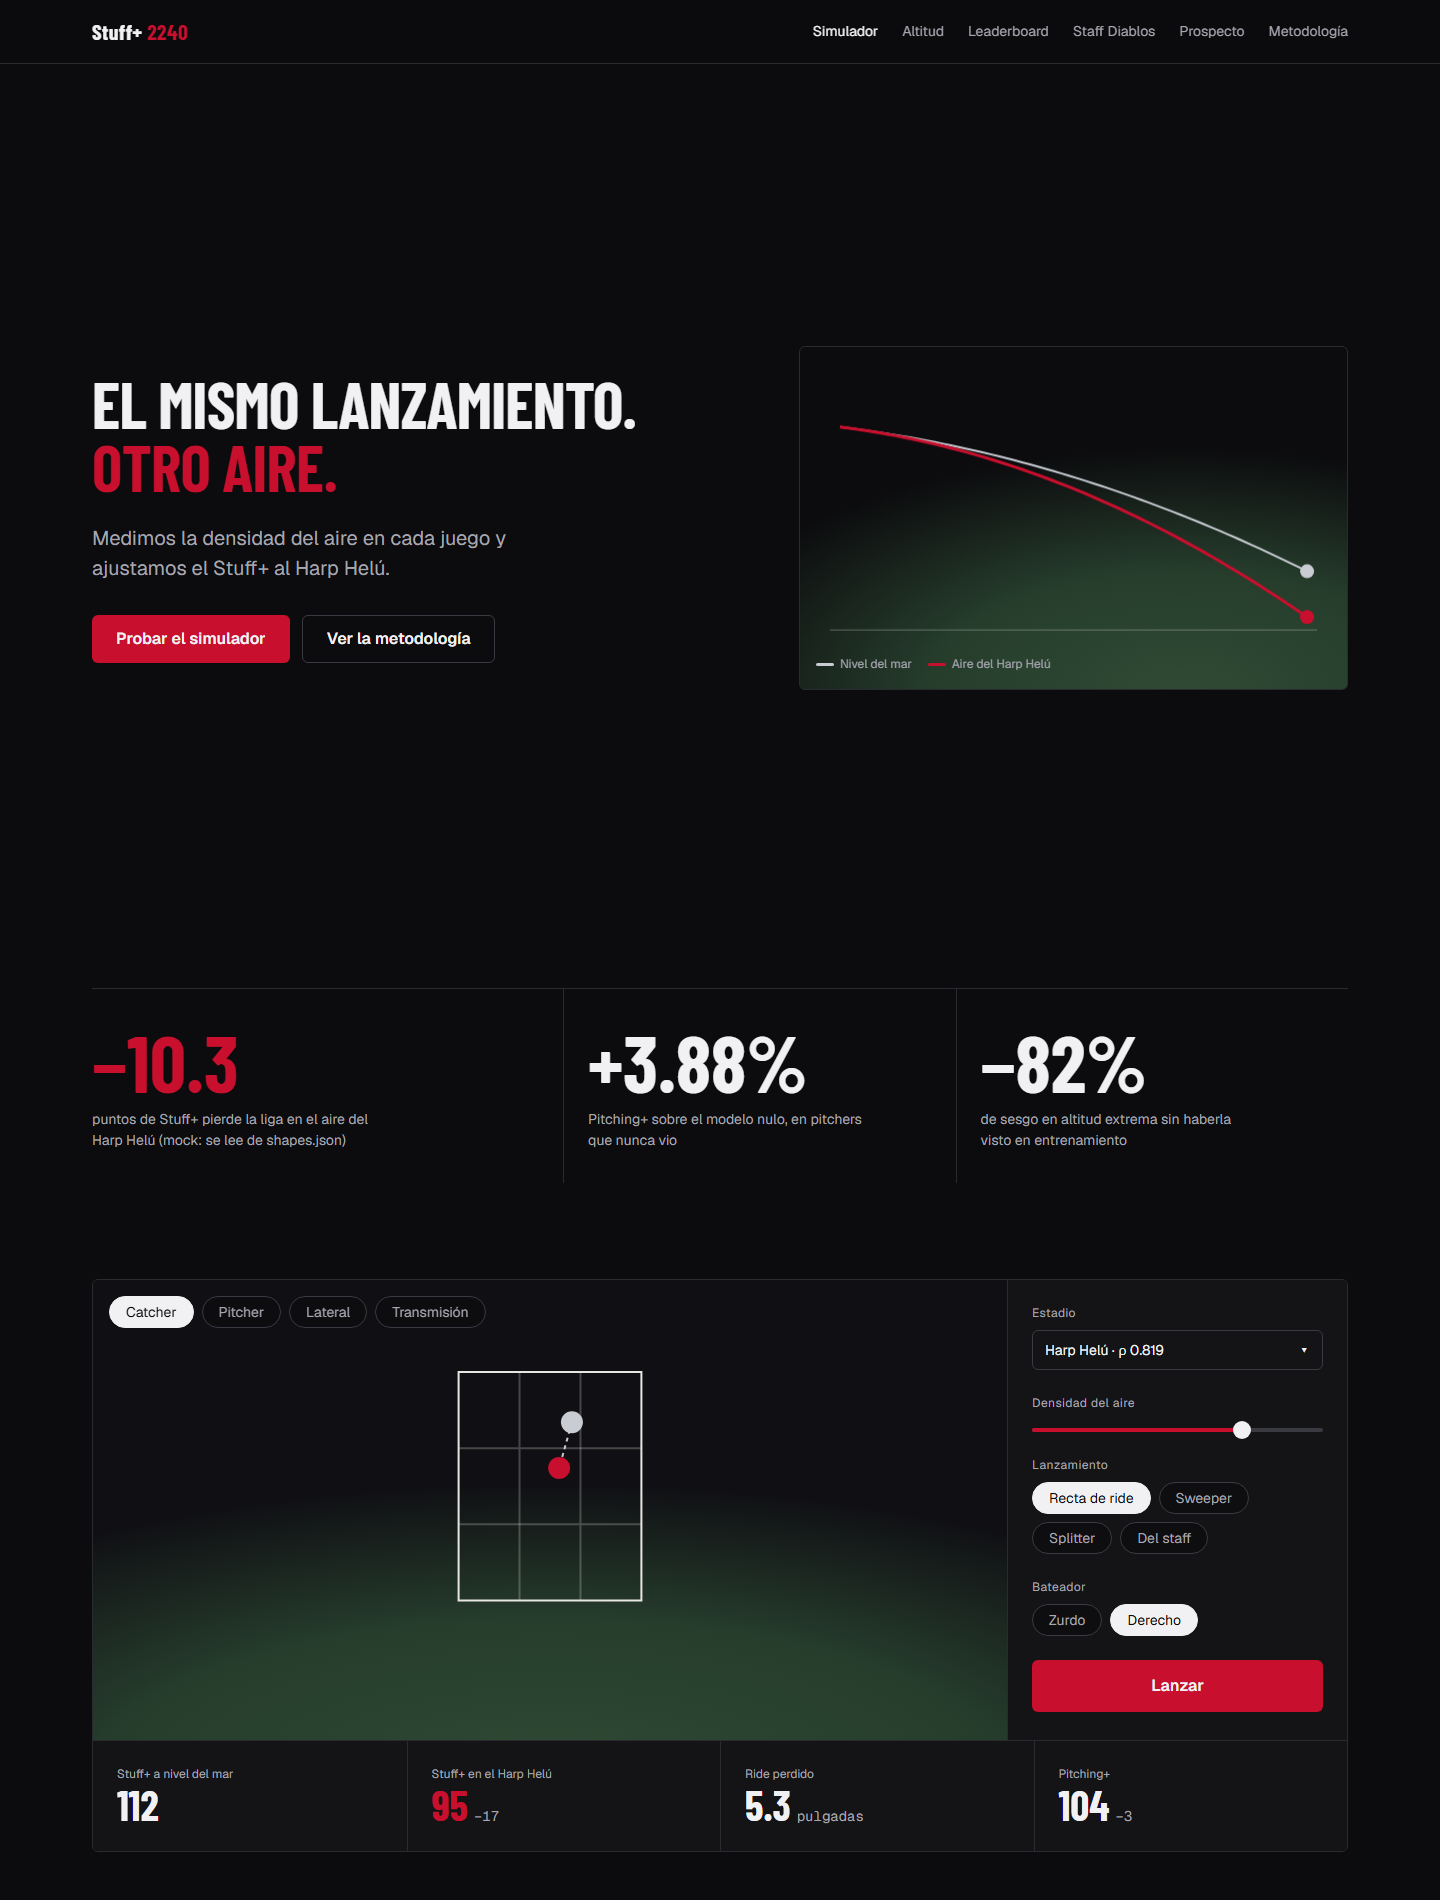
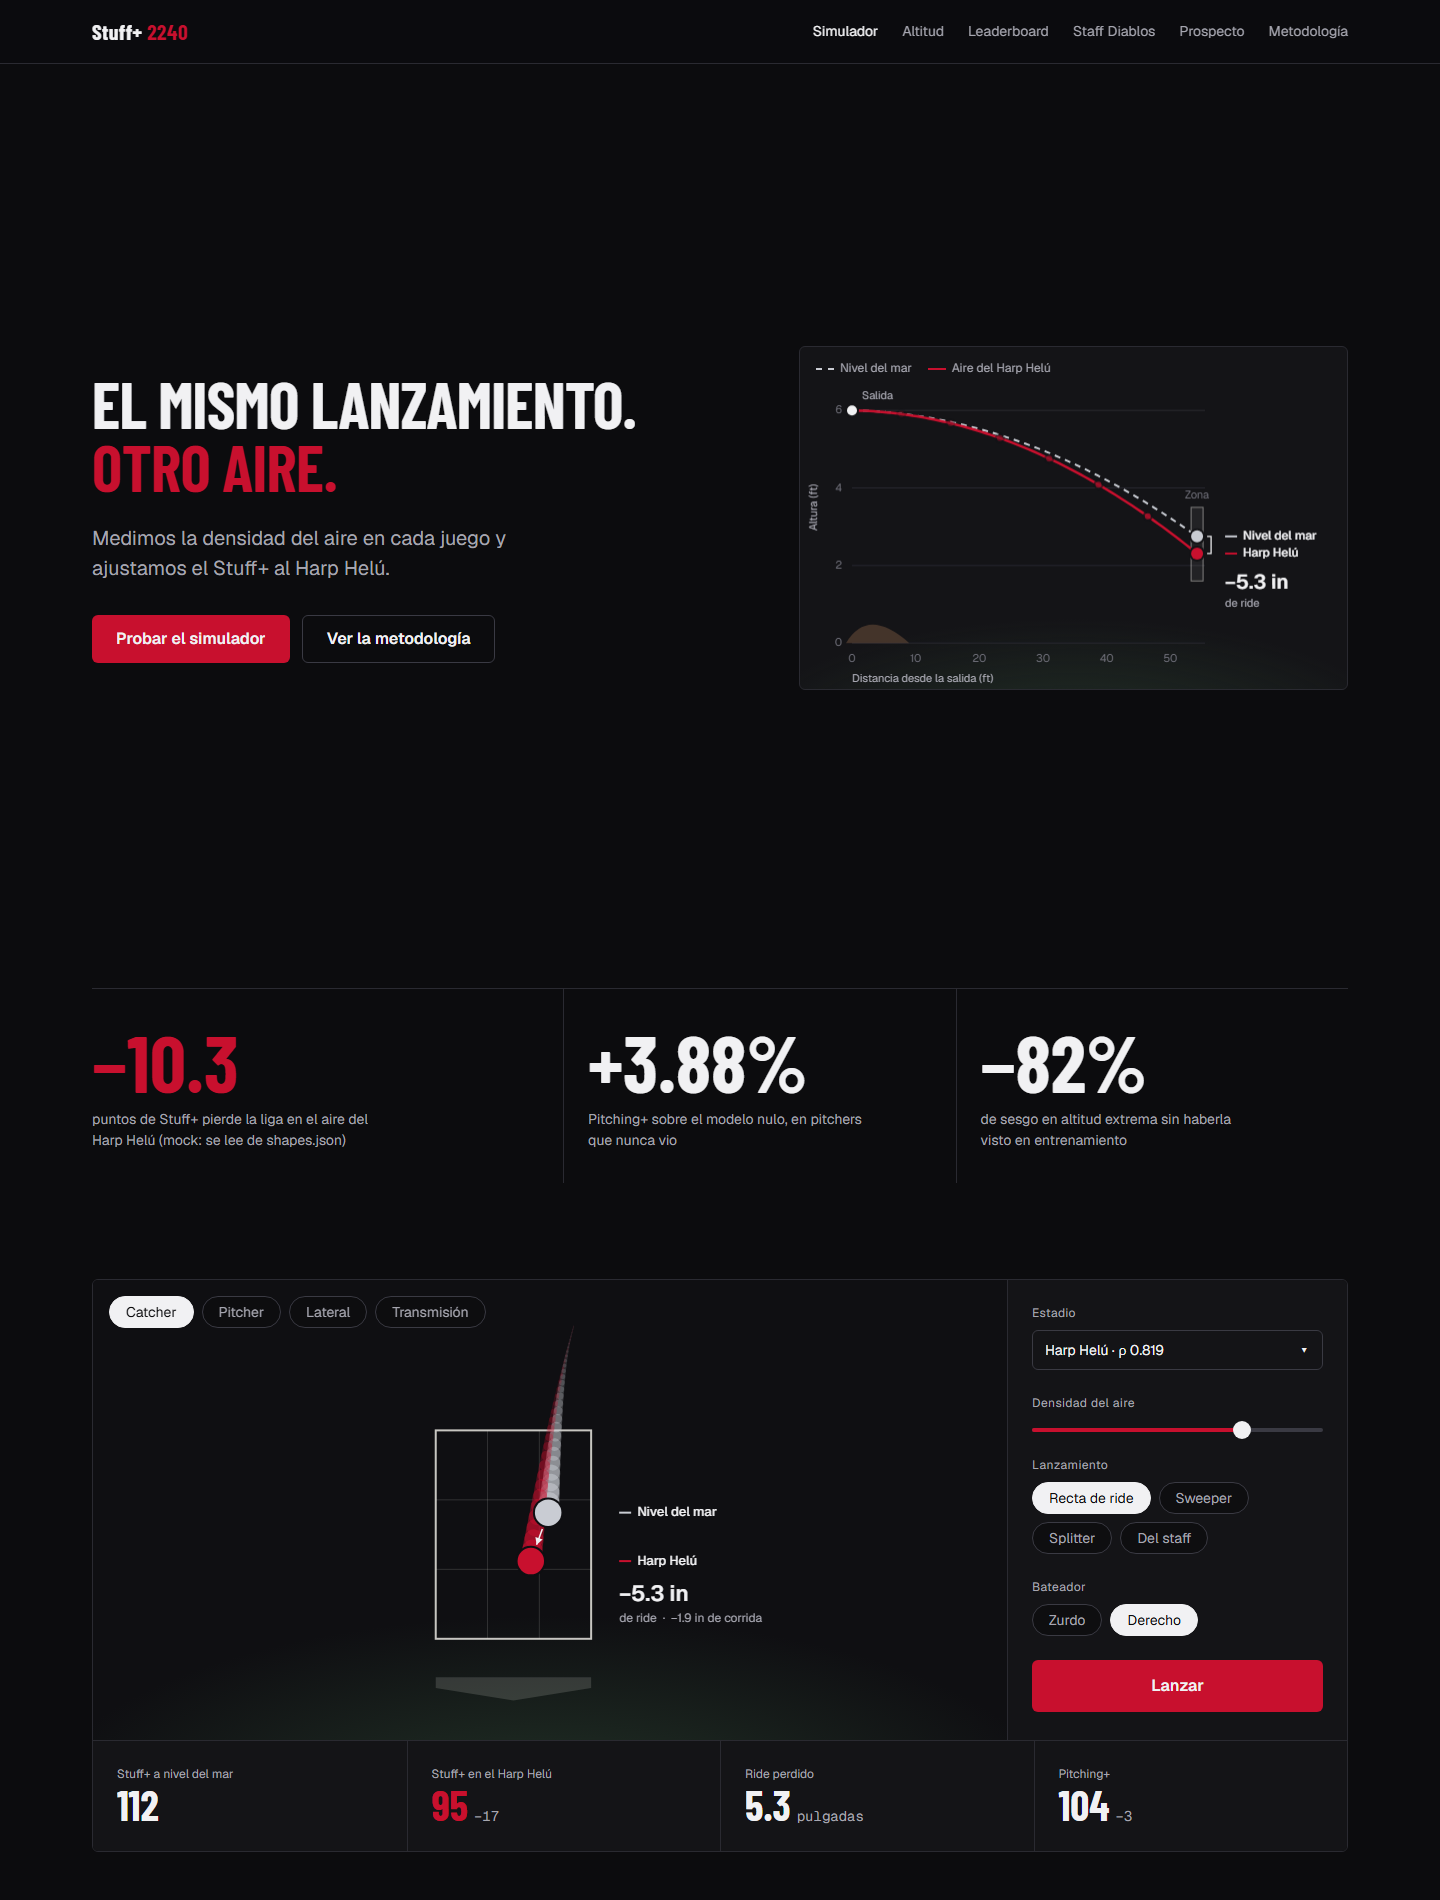
HACK-039: broadcast pitch graphics (catcher flight tubes at real scale, side view with axes and bracket), chart rules in DESIGN.md

diff --git a/web/design/charts.js b/web/design/charts.js
@@ -1,0 +1,144 @@
+// Broadcast pitch graphics for the design lock (HACK-039). Same release thrown in two airs:
+// sea level = neutral grey, dashed (reference); Harp Helú air = Diablos red, solid (the story).
+// Example numbers only (riding four-seam, ~5.3 in of ride lost): the product reads them from the model.
+const FT = 12;
+const PITCH = { release: 6.0, extension: 6.3, mound: 60.5, plateZ: 1.42, v: 94.0 };
+const IVB = { sea: 18.0, cdmx: 12.7 }; // inches of induced vertical break (example)
+const HB = { sea: 8.0, cdmx: 6.1 };
+
+function css(name) { return getComputedStyle(document.documentElement).getPropertyValue(name).trim(); }
+
+// Height (ft) along the flight, s in [0,1] from release to the front of the plate.
+function heightAt(s, ivbIn) {
+  const drop = 4.6;              // gravity + approach angle drop without spin (ft), example
+  const ride = ivbIn / FT;       // spin-induced lift accumulates as s^2 (constant acceleration)
+  return PITCH.release - drop * s * s - 0.15 * s + ride * s * s;
+}
+function sideAt(s, hbIn) { return -0.35 * s + (hbIn / FT) * s * s; }
+
+function setup(canvas) {
+  const dpr = window.devicePixelRatio || 1, r = canvas.getBoundingClientRect();
+  canvas.width = Math.round(r.width * dpr); canvas.height = Math.round(r.height * dpr);
+  const g = canvas.getContext('2d'); g.setTransform(dpr, 0, 0, dpr, 0, 0);
+  return { g, w: r.width, h: r.height };
+}
+
+function dot(g, x, y, r, fill, ring) {
+  g.beginPath(); g.arc(x, y, r + 2, 0, Math.PI * 2); g.fillStyle = ring; g.fill();
+  g.beginPath(); g.arc(x, y, r, 0, Math.PI * 2); g.fillStyle = fill; g.fill();
+}
+
+function label(g, x, y, text, color, align = 'left', weight = 500, size = 12) {
+  g.font = `${weight} ${size}px Geist, 'Segoe UI', sans-serif`; g.fillStyle = color; g.textAlign = align; g.textBaseline = 'middle';
+  g.fillText(text, x, y);
+}
+
+function drawSide(canvas) {
+  const { g, w, h } = setup(canvas);
+  const C = { sea: css('--sea'), red: css('--red'), fg: css('--fg'), muted: css('--fg-muted'), faint: css('--fg-faint'),
+    line: css('--line'), surface: css('--surface'), chalk: css('--chalk'), dirt: css('--dirt') };
+  const pad = { l: 52, r: 150, t: 40, b: 46 };
+  const dist = PITCH.mound - PITCH.extension; // release to plate, ft
+  const X = (d) => pad.l + (d / dist) * (w - pad.l - pad.r);
+  const Y = (z) => h - pad.b - (z / 6.6) * (h - pad.t - pad.b);
+
+  // recessive grid + axes
+  g.lineWidth = 1; g.strokeStyle = C.line;
+  for (const z of [0, 2, 4, 6]) { g.beginPath(); g.moveTo(pad.l, Y(z)); g.lineTo(w - pad.r + 8, Y(z)); g.stroke(); }
+  for (const z of [0, 2, 4, 6]) label(g, pad.l - 10, Y(z), `${z}`, C.faint, 'right', 400, 11);
+  for (const d of [0, 10, 20, 30, 40, 50]) label(g, X(d), h - pad.b + 16, `${d}`, C.faint, 'center', 400, 11);
+  label(g, pad.l, h - 10, 'Distancia desde la salida (ft)', C.muted, 'left', 400, 11);
+  g.save(); g.translate(14, Y(3.5)); g.rotate(-Math.PI / 2); label(g, 0, 0, 'Altura (ft)', C.muted, 'center', 400, 11); g.restore();
+
+  // context: strike-zone band at the plate, plate tick, mound edge
+  g.fillStyle = 'rgba(232,230,225,0.07)'; g.fillRect(X(dist) - 6, Y(3.5), 12, Y(1.6) - Y(3.5));
+  g.strokeStyle = C.chalk; g.globalAlpha = 0.5; g.strokeRect(X(dist) - 6, Y(3.5), 12, Y(1.6) - Y(3.5)); g.globalAlpha = 1;
+  label(g, X(dist), Y(3.5) - 12, 'Zona', C.faint, 'center', 400, 11);
+  g.fillStyle = C.dirt; g.globalAlpha = 0.55; g.beginPath(); g.moveTo(pad.l - 6, Y(0)); g.quadraticCurveTo(X(2.5), Y(0.95), X(9), Y(0)); g.fill(); g.globalAlpha = 1;
+
+  // flights: ghost trail (time samples) + path, sea first so CDMX sits on top
+  const runs = [['sea', IVB.sea, C.sea, [6, 5], 2], ['cdmx', IVB.cdmx, C.red, [], 2.5]];
+  const ends = {};
+  for (const [key, ivb, col, dash, lw] of runs) {
+    g.setLineDash(dash); g.strokeStyle = col; g.lineWidth = lw; g.beginPath();
+    for (let i = 0; i <= 80; i++) { const s = i / 80, x = X(s * dist), y = Y(heightAt(s, ivb)); i ? g.lineTo(x, y) : g.moveTo(x, y); }
+    g.stroke(); g.setLineDash([]);
+    if (key === 'cdmx') for (let k = 1; k <= 6; k++) { const s = k / 7; g.globalAlpha = 0.12 + 0.1 * k; dot(g, X(s * dist), Y(heightAt(s, ivb)), 3, col, C.surface); }
+    g.globalAlpha = 1;
+    ends[key] = [X(dist), Y(heightAt(1, ivb))];
+  }
+  dot(g, ...ends.sea, 6, C.sea, C.surface); dot(g, ...ends.cdmx, 6, C.red, C.surface);
+  dot(g, X(0), Y(PITCH.release), 5, C.fg, C.surface);
+  label(g, X(0) + 10, Y(PITCH.release) - 14, 'Salida', C.muted, 'left', 400, 11);
+
+  // direct labels (text in text tokens; the swatch carries identity) + the delta bracket
+  const bx = ends.cdmx[0] + 14, lx = bx + 14;
+  g.strokeStyle = C.fg; g.lineWidth = 1.25; g.beginPath();
+  g.moveTo(bx - 4, ends.sea[1]); g.lineTo(bx, ends.sea[1]); g.lineTo(bx, ends.cdmx[1]); g.lineTo(bx - 4, ends.cdmx[1]); g.stroke();
+  g.fillStyle = C.sea; g.fillRect(lx, ends.sea[1] - 1, 12, 2);
+  label(g, lx + 18, ends.sea[1], 'Nivel del mar', C.fg, 'left', 500, 12);
+  g.fillStyle = C.red; g.fillRect(lx, ends.cdmx[1] - 1, 12, 2);
+  label(g, lx + 18, ends.cdmx[1], 'Harp Helú', C.fg, 'left', 500, 12);
+  label(g, lx, ends.cdmx[1] + 30, `−${(IVB.sea - IVB.cdmx).toFixed(1)} in`, C.fg, 'left', 600, 20);
+  label(g, lx, ends.cdmx[1] + 50, 'de ride', C.muted, 'left', 400, 11);
+}
+
+function drawCatcher(canvas) {
+  const { g, w, h } = setup(canvas);
+  const C = { sea: css('--sea'), red: css('--red'), fg: css('--fg'), muted: css('--fg-muted'), chalk: css('--chalk'), bg: '#0f0f12' };
+  // catcher's view: 1 ft = px pixels at the plate; zone 17 in wide, 1.6 to 3.5 ft high
+  const px = Math.min(h * 0.62 / 2.6, w * 0.32 / 1.42), cx = w * 0.46, zb = h * 0.78;
+  const Xft = (x) => cx + x * px, Yft = (z) => zb - (z - 1.6) * px;
+  const zl = Xft(-17 / 24), zr = Xft(17 / 24), zt = Yft(3.5);
+  const loc = { sea: [Xft(sideAt(1, HB.sea)), Yft(heightAt(1, IVB.sea))], cdmx: [Xft(sideAt(1, HB.cdmx)), Yft(heightAt(1, IVB.cdmx))] };
+  const ball = (2.9 / FT) * px / 2;
+
+  // home plate, foreshortened, just under the zone; zone frame and 3x3 grid in chalk
+  const pw = zr - zl, py = zb + px * 0.35;
+  g.fillStyle = C.chalk; g.globalAlpha = 0.16; g.beginPath();
+  g.moveTo(zl, py); g.lineTo(zr, py); g.lineTo(zr, py + pw * 0.07); g.lineTo(cx, py + pw * 0.15); g.lineTo(zl, py + pw * 0.07); g.closePath(); g.fill();
+  g.globalAlpha = 1; g.strokeStyle = C.chalk; g.lineWidth = 1;
+  g.globalAlpha = 0.16;
+  for (let i = 1; i < 3; i++) {
+    g.beginPath(); g.moveTo(zl + pw * i / 3, zt); g.lineTo(zl + pw * i / 3, zb);
+    g.moveTo(zl, zt + (zb - zt) * i / 3); g.lineTo(zr, zt + (zb - zt) * i / 3); g.stroke();
+  }
+  g.globalAlpha = 0.85; g.lineWidth = 2; g.strokeRect(zl, zt, pw, zb - zt); g.globalAlpha = 1;
+
+  // flight tubes: from the release (far, small) to the plate (near, ball size), getting wider and brighter
+  const rel = [cx + px * 0.55, h * 0.1];
+  for (const [key, col] of [['sea', C.sea], ['cdmx', C.red]]) {
+    const [ex, ey] = loc[key], bend = key === 'cdmx' ? 0.10 : 0.16;
+    let prev = rel;
+    for (let i = 1; i <= 28; i++) {
+      const t = i / 28, mx = rel[0] + (ex - rel[0]) * t, my = rel[1] + (ey - rel[1]) * t - Math.sin(Math.PI * t) * (ey - rel[1]) * bend;
+      g.strokeStyle = col; g.globalAlpha = 0.08 + 0.5 * t * t; g.lineCap = 'round';
+      g.lineWidth = 1 + (ball * 1.5) * t * t; g.beginPath(); g.moveTo(...prev); g.lineTo(mx, my); g.stroke(); prev = [mx, my];
+    }
+  }
+  g.globalAlpha = 1; g.lineCap = 'butt';
+  dot(g, ...loc.sea, ball, C.sea, C.bg);
+  dot(g, ...loc.cdmx, ball, C.red, C.bg);
+
+  // movement lost: thin arrow between ball edges
+  const [sx, sy] = loc.sea, [rx, ry] = loc.cdmx, ang = Math.atan2(ry - sy, rx - sx), d = Math.hypot(rx - sx, ry - sy);
+  if (d > 2 * ball + 12) {
+    const a0 = [sx + Math.cos(ang) * (ball + 4), sy + Math.sin(ang) * (ball + 4)], a1 = [rx - Math.cos(ang) * (ball + 4), ry - Math.sin(ang) * (ball + 4)];
+    g.strokeStyle = C.fg; g.lineWidth = 1.5; g.beginPath(); g.moveTo(...a0); g.lineTo(...a1); g.stroke();
+    g.fillStyle = C.fg; g.beginPath(); g.moveTo(...a1);
+    g.lineTo(a1[0] - Math.cos(ang - 0.5) * 8, a1[1] - Math.sin(ang - 0.5) * 8); g.lineTo(a1[0] - Math.cos(ang + 0.5) * 8, a1[1] - Math.sin(ang + 0.5) * 8); g.fill();
+  }
+
+  // labels in a column right of the zone (text tokens; swatches carry identity)
+  const lx = zr + 28;
+  g.fillStyle = C.sea; g.fillRect(lx, sy - 1, 12, 2); label(g, lx + 18, sy, 'Nivel del mar', C.fg, 'left', 500, 13);
+  g.fillStyle = C.red; g.fillRect(lx, ry - 1, 12, 2); label(g, lx + 18, ry, 'Harp Helú', C.fg, 'left', 500, 13);
+  label(g, lx, ry + 34, `−${(IVB.sea - IVB.cdmx).toFixed(1)} in`, C.fg, 'left', 600, 22);
+  label(g, lx, ry + 58, `de ride  ·  −${(HB.sea - HB.cdmx).toFixed(1)} in de corrida`, C.muted, 'left', 400, 12);
+}
+
+function drawAll() {
+  const side = document.getElementById('side'), catcher = document.getElementById('catcher');
+  if (side) drawSide(side);
+  if (catcher) drawCatcher(catcher);
+}

diff --git a/web/design/mock.html b/web/design/mock.html
@@ -29,11 +29,11 @@
   .btn.primary { background: var(--red); color: var(--fg); }
   .btn.primary:hover { background: var(--red-strong); }
   .btn.ghost { border: 1px solid var(--line-strong); color: var(--fg); }
-  .flight { position: relative; aspect-ratio: 16 / 10; border-radius: var(--radius); overflow: hidden; background: radial-gradient(120% 90% at 70% 100%, var(--grass) 0%, var(--grass-dark) 38%, var(--bg) 78%); border: 1px solid var(--line); }
+  .flight { position: relative; aspect-ratio: 16 / 10; border-radius: var(--radius); overflow: hidden; background: radial-gradient(90% 55% at 50% 118%, rgb(47 74 53 / .55) 0%, transparent 70%), var(--surface); border: 1px solid var(--line); }
   .flight canvas { width: 100%; height: 100%; display: block; }
-  .legend { position: absolute; left: var(--s-4); bottom: var(--s-4); display: flex; gap: var(--s-4); font-size: var(--text-xs); color: var(--fg-muted); }
-  .legend span::before { content: ''; display: inline-block; width: 18px; height: 3px; margin-right: 6px; vertical-align: middle; border-radius: 2px; background: var(--sea); }
-  .legend span.cdmx::before { background: var(--red); }
+  .legend { position: absolute; left: var(--s-4); top: var(--s-3); display: flex; gap: var(--s-4); font-size: var(--text-xs); color: var(--fg-muted); }
+  .legend span::before { content: ''; display: inline-block; width: 18px; height: 0; margin-right: 6px; vertical-align: middle; border-top: 2px dashed var(--sea); }
+  .legend span.cdmx::before { border-top: 2.5px solid var(--red); }
 
   /* PROOF: three numbers that win, broadcast lower-third style, no cards */
   .proof { display: grid; grid-template-columns: 1.2fr 1fr 1fr; border-top: 1px solid var(--line); margin-top: var(--s-16); }
@@ -45,7 +45,7 @@
 
   /* SIMULATOR HUD */
   .sim { margin: var(--s-24) 0; display: grid; grid-template-columns: 1fr 340px; grid-template-rows: auto auto; gap: 0; border: 1px solid var(--line); border-radius: var(--radius); overflow: hidden; }
-  .view { position: relative; background: radial-gradient(110% 80% at 50% 110%, var(--grass) 0%, var(--grass-dark) 45%, #101014 82%); min-height: 460px; }
+  .view { position: relative; background: radial-gradient(80% 60% at 50% 115%, rgb(47 74 53 / .6) 0%, transparent 70%), #0f0f12; min-height: 460px; }
   .view canvas { width: 100%; height: 100%; display: block; position: absolute; inset: 0; }
   .cams { position: absolute; top: var(--s-4); left: var(--s-4); display: flex; gap: var(--s-2); z-index: var(--z-hud); }
   .chip { height: 32px; padding: 0 var(--s-4); border-radius: var(--radius-pill); border: 1px solid var(--line-strong); background: rgb(12 12 14 / .72); color: var(--fg-muted); font-size: var(--text-sm); display: inline-flex; align-items: center; }
@@ -123,28 +123,7 @@
   <p class="note">Maqueta de diseño (HACK-039). Las cifras del simulador son de ejemplo; en el producto salen del modelo en el navegador y de los JSON del contrato.</p>
 </div>
 
-<script>
-// Two flights of the same release: sea level (neutral) vs Harp Helú air (red). Simple projectile + lift scaled by rho.
-function flight(rho) { const pts = []; let x = 0, y = 6.0, vx = 1, vy = -0.02; for (let t = 0; t < 60; t++) { pts.push([x, y]); x += vx; vy += -0.0042 + 0.0031 * rho; y += vy; } return pts; }
-function draw(id, mode) {
-  const c = document.getElementById(id), dpr = window.devicePixelRatio || 1, r = c.getBoundingClientRect();
-  c.width = r.width * dpr; c.height = r.height * dpr; const g = c.getContext('2d'); g.scale(dpr, dpr);
-  const css = getComputedStyle(document.documentElement), sea = css.getPropertyValue('--sea').trim(), red = css.getPropertyValue('--red').trim(), chalk = css.getPropertyValue('--chalk').trim();
-  if (mode === 'side') {
-    const sx = (x) => 40 + x / 59 * (r.width - 80), sy = (y) => r.height * 0.18 + (6.4 - y) / 4.6 * r.height * 0.62;
-    g.strokeStyle = chalk; g.globalAlpha = .35; g.lineWidth = 1; g.beginPath(); g.moveTo(30, sy(1.6)); g.lineTo(r.width - 30, sy(1.6)); g.stroke(); g.globalAlpha = 1;
-    [[1.0, sea, 2], [0.819, red, 3]].forEach(([rho, col, w]) => { const p = flight(rho); g.strokeStyle = col; g.lineWidth = w; g.beginPath(); p.forEach(([x, y], i) => i ? g.lineTo(sx(x), sy(y)) : g.moveTo(sx(x), sy(y))); g.stroke(); const [lx, ly] = p[p.length - 1]; g.fillStyle = col; g.beginPath(); g.arc(sx(lx), sy(ly), 7, 0, 7); g.fill(); });
-  } else {
-    const zw = r.width * 0.2, zh = zw * 1.25, zx = r.width / 2 - zw / 2, zy = r.height * 0.2;
-    g.strokeStyle = chalk; g.lineWidth = 2; g.strokeRect(zx, zy, zw, zh);
-    g.globalAlpha = .25; for (let i = 1; i < 3; i++) { g.beginPath(); g.moveTo(zx + zw * i / 3, zy); g.lineTo(zx + zw * i / 3, zy + zh); g.moveTo(zx, zy + zh * i / 3); g.lineTo(zx + zw, zy + zh * i / 3); g.stroke(); } g.globalAlpha = 1;
-    const pts = [[zx + zw * .62, zy + zh * .22, sea], [zx + zw * .55, zy + zh * .42, red]];
-    g.setLineDash([4, 4]); g.strokeStyle = sea; g.beginPath(); g.moveTo(pts[0][0], pts[0][1]); g.lineTo(pts[1][0], pts[1][1]); g.stroke(); g.setLineDash([]);
-    pts.forEach(([x, y, col]) => { g.fillStyle = col; g.beginPath(); g.arc(x, y, 11, 0, 7); g.fill(); });
-  }
-}
-function all() { draw('side', 'side'); draw('catcher', 'catcher'); }
-window.addEventListener('resize', all); document.fonts.ready.then(all);
-</script>
+<script src="charts.js"></script>
+<script>window.addEventListener("resize", drawAll); document.fonts.ready.then(drawAll);</script>
 </body>
 </html>

diff --git a/web/DESIGN.md b/web/DESIGN.md
@@ -48,6 +48,16 @@ the landing.
 - Budget: 60 fps on a mid laptop, < 150k triangles, lazy-load three.js off the landing's first paint; WebGL missing →
   2D catcher view (same data, SVG/canvas).
 
+## Charts (dataviz skill; reference implementation `design/charts.js`)
+- Two-series comparisons are **highlight vs reference**: Harp Helú air = `--red`, solid 2.5px; sea level = `--sea`,
+  **dashed** 2px (secondary encoding, never color alone). Validated on `--bg`/`--surface`: deutan ΔE 31.5,
+  normal ΔE 37.9, both ≥ 3:1 contrast (the grey is a neutral reference, not a categorical hue).
+- Pitch graphics look like broadcast tracking, not schematics: real proportions (zone 17 in, ball 2.9 in), axes with
+  units, recessive grid (`--line`), flight tubes that widen toward the catcher, an arrow or bracket that states the
+  movement lost, direct labels in a right-hand column. Text always in text tokens; the swatch carries identity.
+- A legend for every chart with ≥ 2 series, plus direct labels; no dual axes; markers ≥ 8px with a 2px surface ring;
+  every chart has hover/focus tooltips in the product and a short text conclusion beside it.
+
 ## Copy (Spanish)
 - Plain, concrete sentences. Zero em-dashes. Hyphen for ranges; the minus sign for negative numbers.
 - Every number comes from a contract JSON (`public/data/`), never typed in a component. Mocks say "ejemplo".
